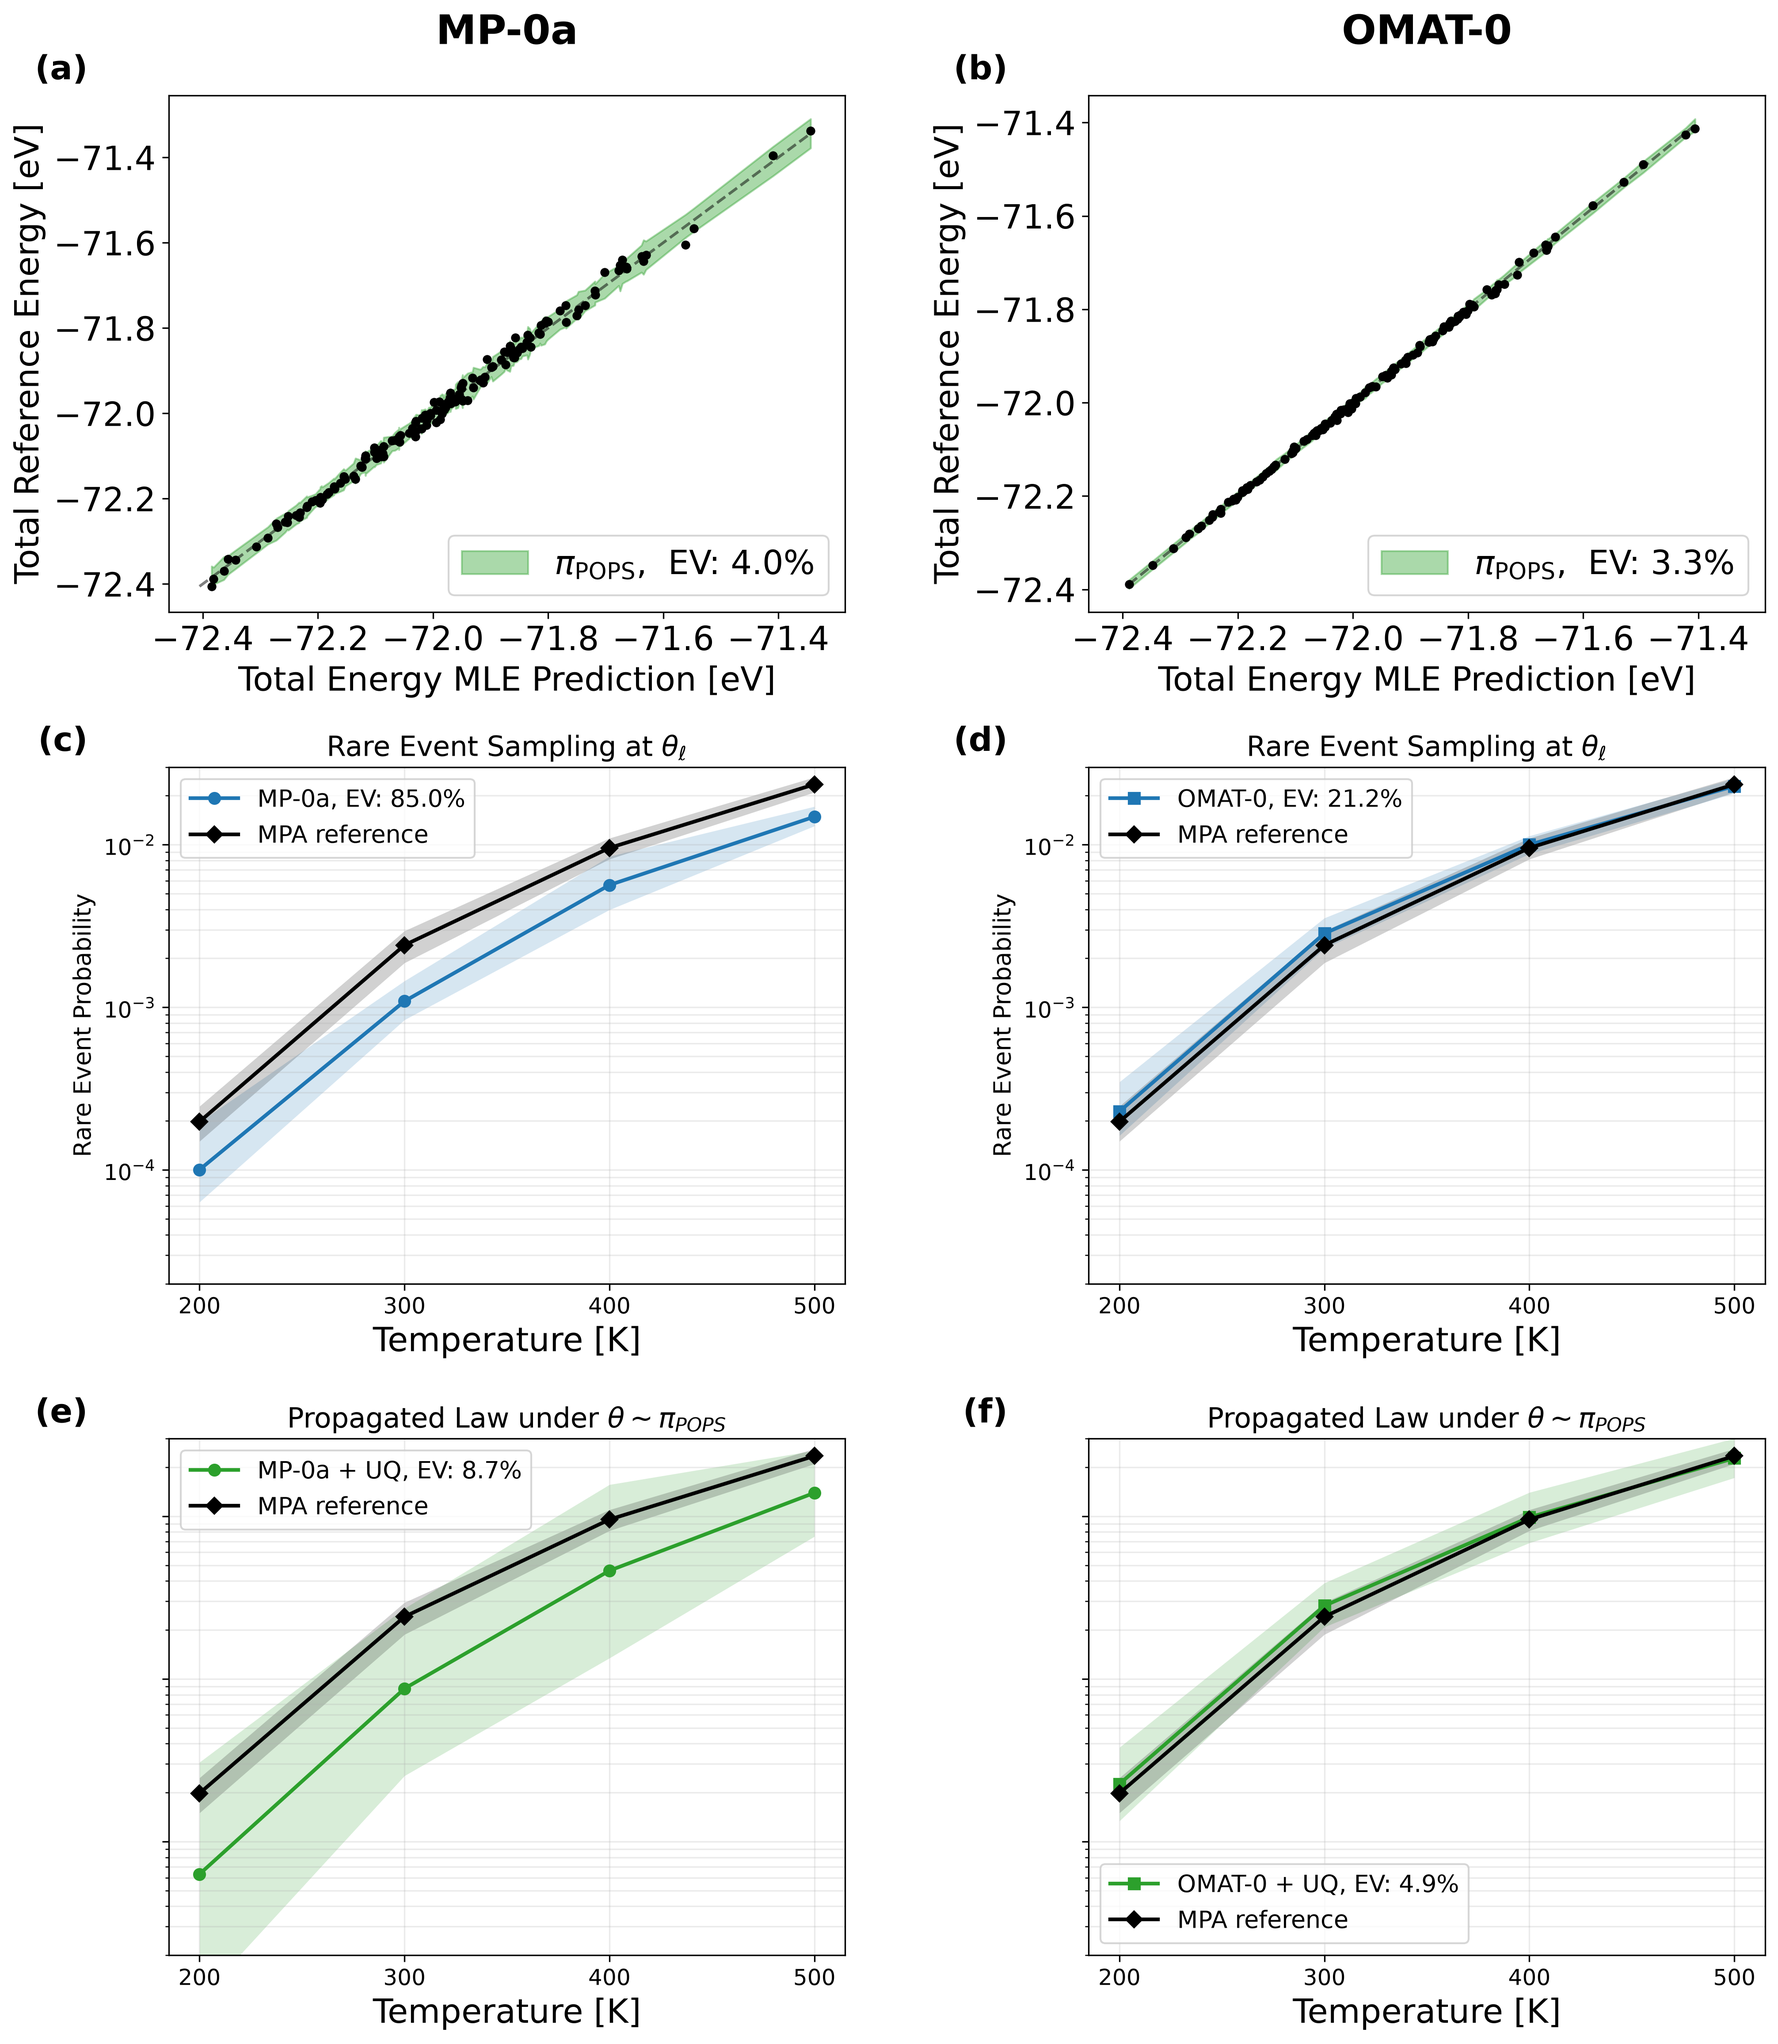
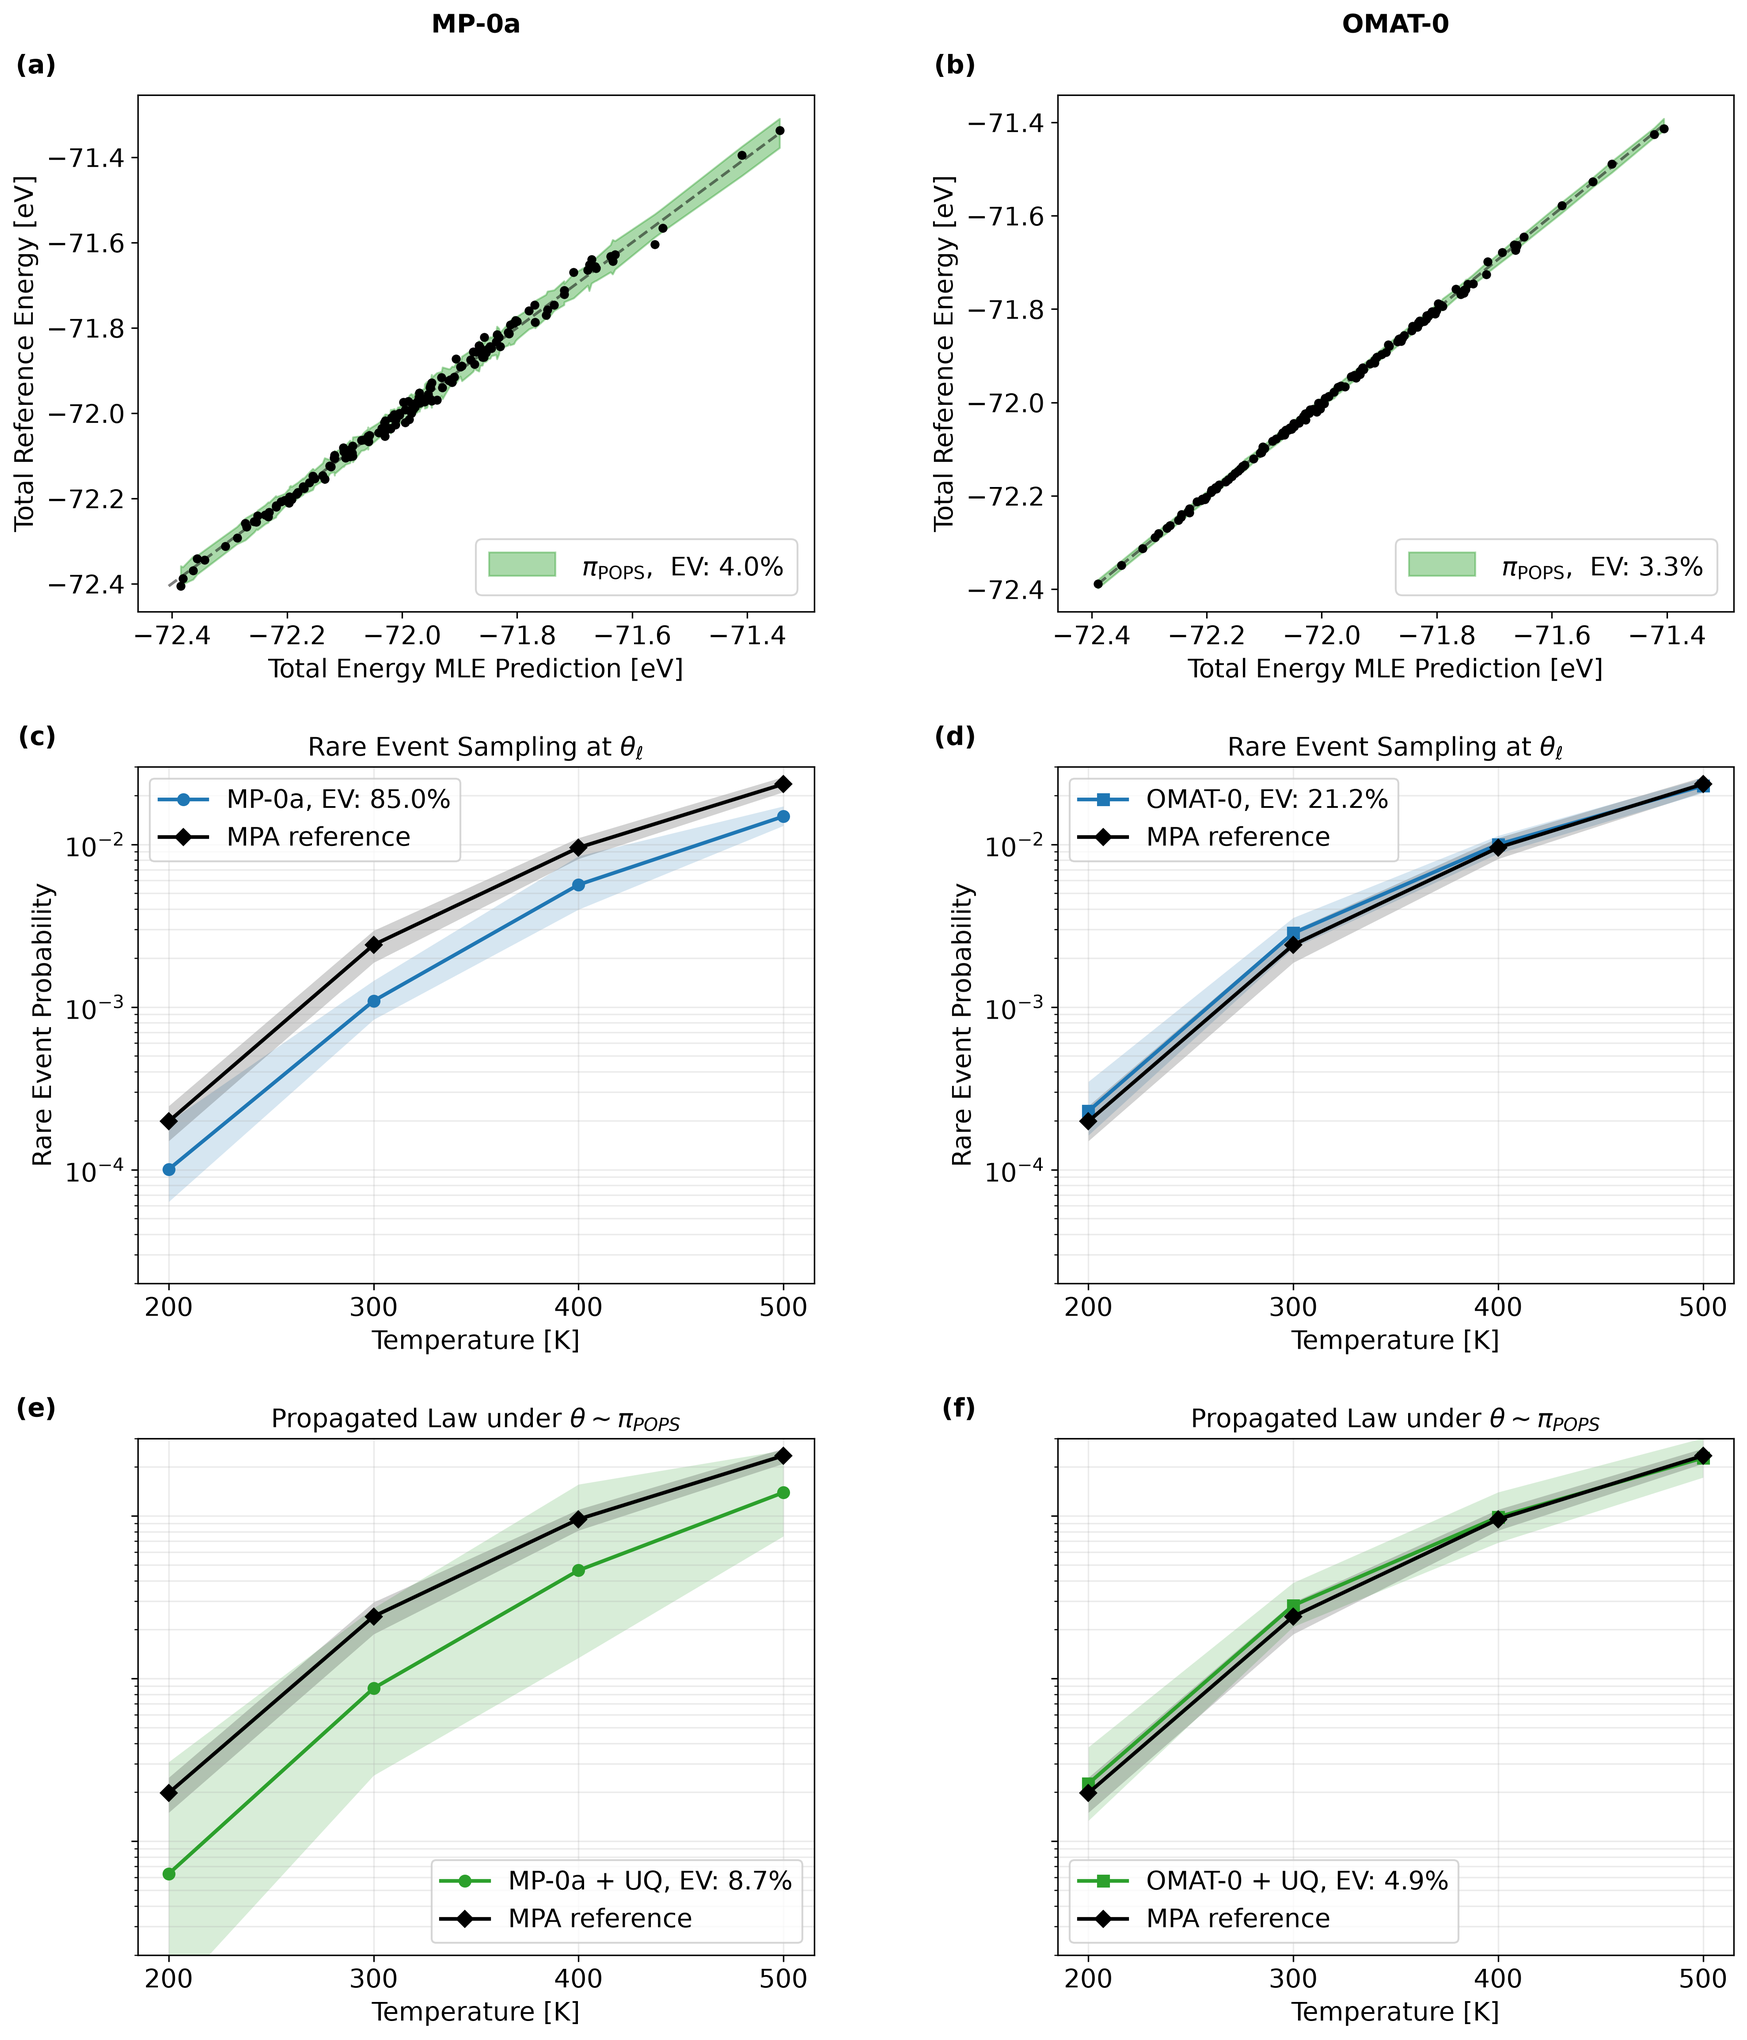
Unify typography in portrait figure

diff --git a/scripts/AMS_butane/plots/plot_energy_probability.py b/scripts/AMS_butane/plots/plot_energy_probability.py
@@ -521,6 +521,36 @@ for ax, label in panel_labels.items():
         fontsize=18, fontweight='bold', va='top', ha='right',
     )
 
+vertical_font_size = 14
+vertical_font_family = 'DejaVu Sans'
+plt.rcParams['font.family'] = vertical_font_family
+plt.rcParams['mathtext.fontset'] = 'dejavusans'
+for ax in vertical_axes:
+    ax.title.set_fontsize(vertical_font_size)
+    ax.title.set_fontfamily(vertical_font_family)
+    for label in (ax.xaxis.label, ax.yaxis.label):
+        label.set_fontsize(vertical_font_size)
+        label.set_fontfamily(vertical_font_family)
+    ax.tick_params(axis='both', labelsize=vertical_font_size)
+    for label in [*ax.get_xticklabels(), *ax.get_yticklabels()]:
+        label.set_fontsize(vertical_font_size)
+        label.set_fontfamily(vertical_font_family)
+    for offset in (ax.xaxis.get_offset_text(), ax.yaxis.get_offset_text()):
+        offset.set_fontsize(vertical_font_size)
+        offset.set_fontfamily(vertical_font_family)
+    for annotation in ax.texts:
+        annotation.set_fontsize(vertical_font_size)
+        annotation.set_fontfamily(vertical_font_family)
+    legend = ax.get_legend()
+    if legend is not None:
+        for label in legend.get_texts():
+            label.set_fontsize(vertical_font_size)
+            label.set_fontfamily(vertical_font_family)
+
+for label in fig.texts:
+    label.set_fontsize(vertical_font_size)
+    label.set_fontfamily(vertical_font_family)
+
 fig.savefig(
     os.path.join(output_dir, 'energy_probability_all_temperatures_vertical.png'),
     dpi=300,
